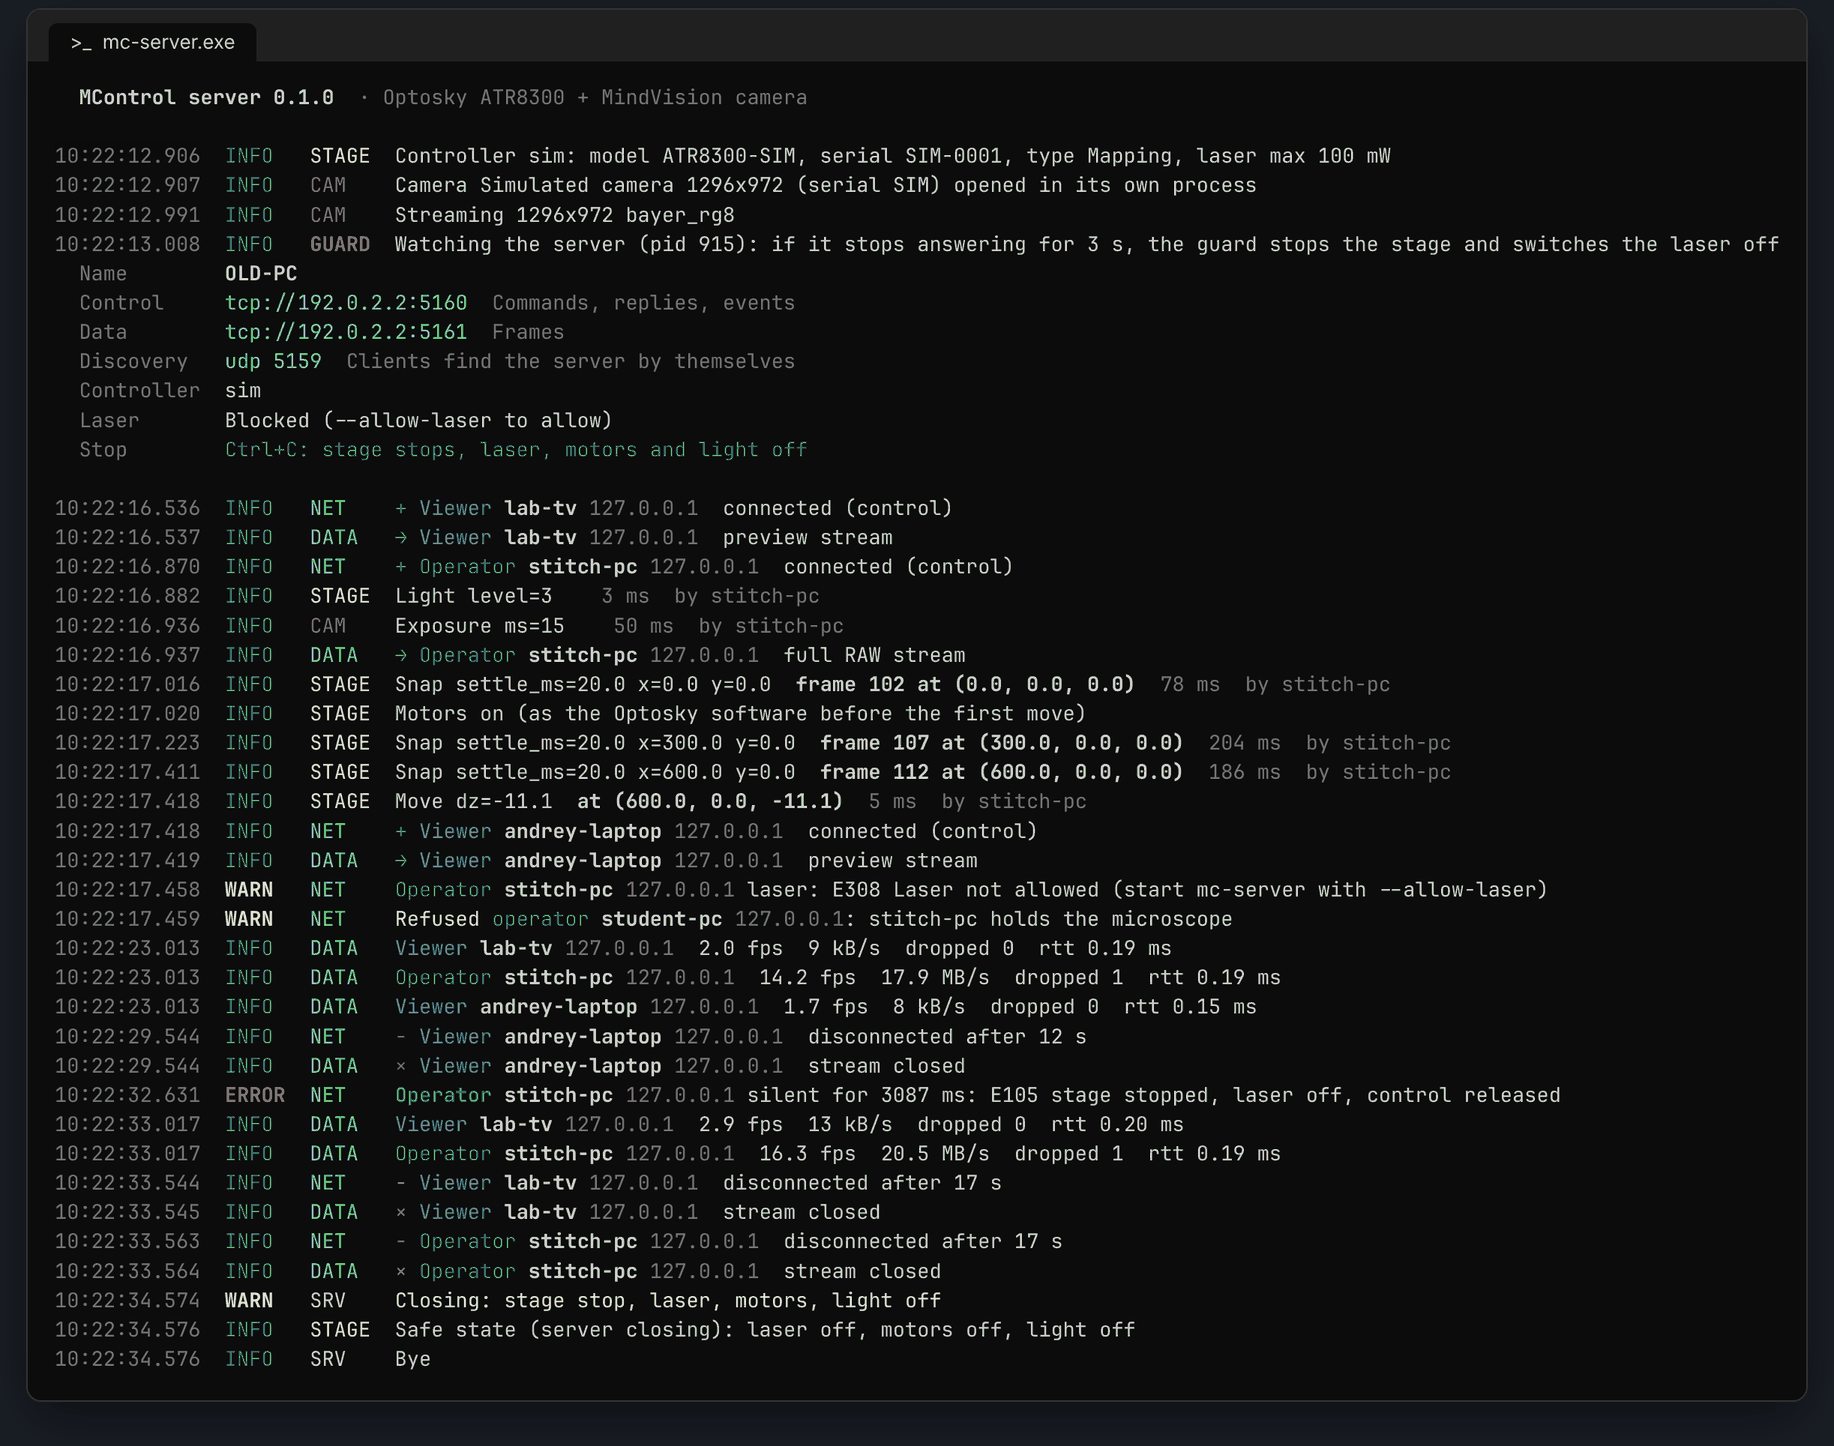
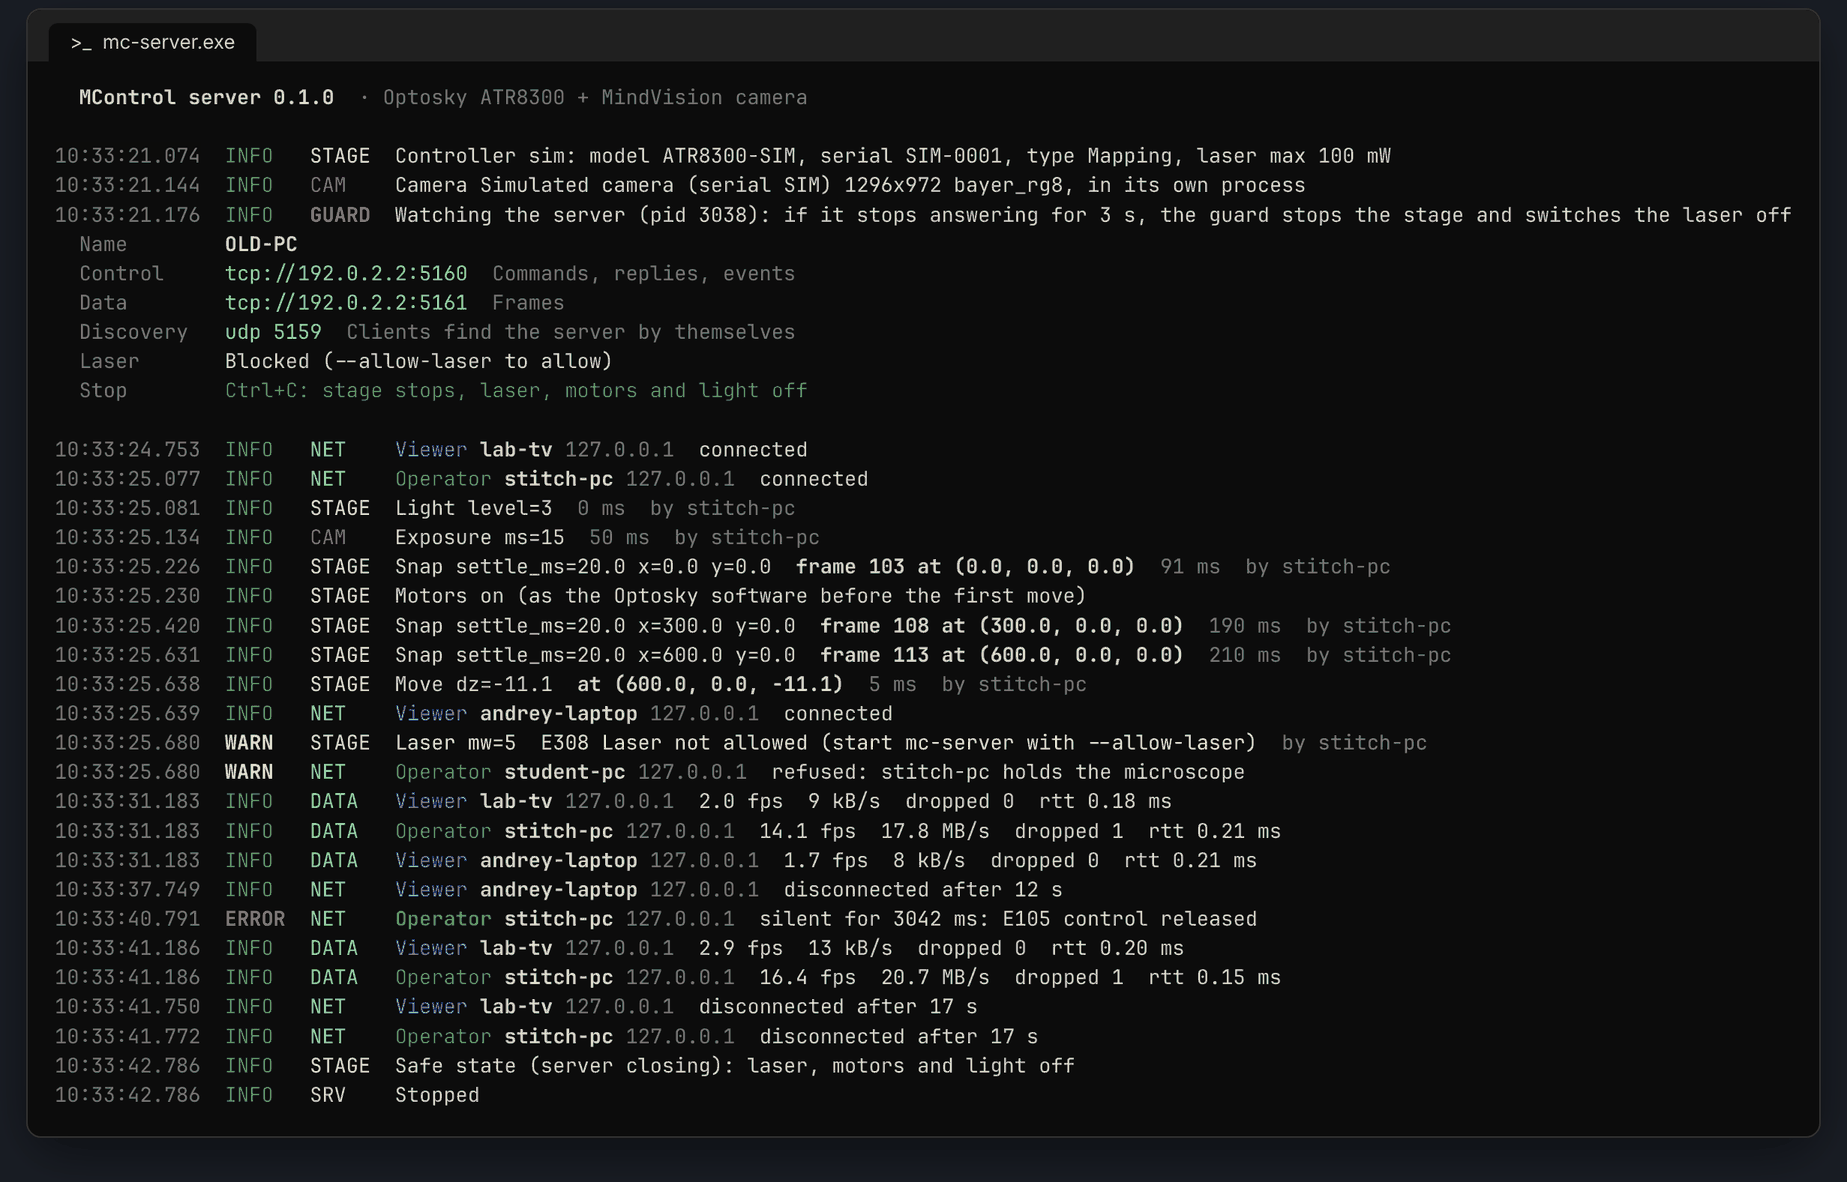
Log: one line per event, one shape for all
- no +/-/arrow marks: who first, then what happened
- data link open/close, camera 'opened', per-command guard lines moved to debug
- laser and zero logged once, by the command log; failed commands use the same shape
- shutdown: one safe-state line, no separate warning
- camera waits up to 3 s for its worker instead of failing at start (CI race)

Changed region(s): [[0.0311, 0.0, 0.9635, 0.9442], [0.8081, 0.731, 0.8391, 0.7614], [0.7459, 0.731, 0.777, 0.7614]]

diff --git a/crates/mc-server/src/net.rs b/crates/mc-server/src/net.rs
@@ -3,7 +3,7 @@
 
 use crate::camera::Camera;
 use crate::frames::{Frame, Hub, Outbox, Want};
-use crate::log::{paint, rate, BLUE, BOLD, DIM, GREEN, RED};
+use crate::log::{paint, rate, Level, BLUE, BOLD, DIM, GREEN};
 use crate::stage::Stage;
 use mc_proto::clock::now_ns;
 use mc_proto::errors::{McError, McResult};
@@ -172,14 +172,14 @@ impl Server {
                 if h.alive.load(Ordering::Relaxed) {
                     let e = McError::new("E103", format!("{} ({})", h.name, h.addr.ip()));
                     sess.send(&err(&id, &e));
-                    warn!("NET", "refused {}: {} holds the microscope", sess.who(), h.name);
+                    warn!("NET", "{}  refused: {} holds the microscope", sess.who(), h.name);
                     return;
                 }
             }
             *l = Some(sess.clone());
         }
         self.sessions.lock().unwrap().push(sess.clone());
-        info!("NET", "{} {}  connected (control)", paint(GREEN, "+"), sess.who());
+        info!("NET", "{}  connected", sess.who());
         sess.send(&ok(&id, json!({"session": sess.id, "role": if role == Role::Operator { "operator" } else { "viewer" },
             "server": self.info(), "t_server": now_ns()})));
         if role == Role::Operator {
@@ -227,7 +227,7 @@ impl Server {
                 false
             }
         };
-        info!("NET", "{} {}  {} after {:.0} s", paint(RED, "-"), sess.who(), why, (now_ns() - sess.since) as f64 / 1e9);
+        info!("NET", "{}  {} after {:.0} s", sess.who(), why, (now_ns() - sess.since) as f64 / 1e9);
         if was_op {
             self.safe_stop("operator gone");
             self.broadcast(&json!({"event": "operator", "name": null}));
@@ -240,7 +240,7 @@ impl Server {
         let st = self.stage.clone();
         let laser = st.shared.lock().unwrap().laser;
         if laser > 0 || st.shared.lock().unwrap().moving {
-            warn!("STAGE", "{why}: stopping the stage, laser off");
+            warn!("STAGE", "{why}: stage stopped, laser off");
         }
         std::thread::spawn(move || {
             let _ = st.call(|w| {
@@ -323,7 +323,7 @@ impl Server {
         }
         if cmd == "stop" {
             self.stage.stop();
-            warn!("STAGE", "STOP from {}", sess.who());
+            warn!("STAGE", "Stop by {}", sess.name);
             sess.send(&ok(&id, json!({})));
             return;
         }
@@ -341,11 +341,11 @@ impl Server {
             let r = s.run_cmd(&sess, &cmd, &v);
             match r {
                 Ok(x) => {
-                    log_done(&sess, &cmd, &v, &x, (now_ns() - t0) as f64 / 1e6);
+                    log_cmd(&sess, &cmd, &v, Ok(&x), (now_ns() - t0) as f64 / 1e6);
                     sess.send(&ok(&id, x))
                 }
                 Err(e) => {
-                    warn!("NET", "{} {}: {}", sess.who(), cmd, e);
+                    log_cmd(&sess, &cmd, &v, Err(&e), (now_ns() - t0) as f64 / 1e6);
                     sess.send(&err(&id, &e));
                 }
             }
@@ -408,9 +408,7 @@ impl Server {
         } else if d.iter().any(|a| a.is_some()) {
             self.stage.call(move |w| w.move_by(d, gen))?;
         }
-        if !self.cam.ok.load(Ordering::Relaxed) {
-            return Err(McError::new("E500", ""));
-        }
+        self.cam.wait_ok(3000)?;
         let settle = f3(v, "settle_ms").unwrap_or(0.0).max(0.0);
         let t_ready = self.stage.shared.lock().unwrap().settled_ns.max(now_ns()) + (settle * 1e6) as u64;   // a fresh frame, taken still
         let timeout = Duration::from_millis(f3(v, "timeout_ms").unwrap_or(5000.0).max(0.0) as u64);
@@ -474,7 +472,7 @@ impl Server {
         let _ = write_json(&mut w, &json!({"ok": true}));
         use std::io::Write;
         let _ = w.flush();
-        info!("DATA", "{} {}  {}", paint(GREEN, "→"), sess.who(), if raw { "full RAW stream" } else { "preview stream" });
+        crate::debug!("DATA", "{} data link: {}", sess.who(), if raw { "full RAW stream" } else { "preview stream" });
         let _ = addr;
         while let Some((f, preview, reliable)) = ob.next() {
             if !sess.alive.load(Ordering::Relaxed) {
@@ -499,7 +497,7 @@ impl Server {
         }
         self.hub.remove(&ob);
         ob.close();
-        info!("DATA", "{} {}  stream closed", paint(RED, "×"), sess.who());
+        crate::debug!("DATA", "{} data link closed", sess.who());
     }
 
     // ---------------------------------------------------------------- background
@@ -510,7 +508,7 @@ impl Server {
             if let Some(h) = self.holder() {
                 let silent = (now_ns() - h.last_seen.load(Ordering::Relaxed)) / 1_000_000;
                 if silent > self.cfg.dead_ms {
-                    error!("NET", "{} silent for {} ms: E105 stage stopped, laser off, control released", h.who(), silent);
+                    error!("NET", "{}  silent for {} ms: E105 control released", h.who(), silent);
                     h.send(&json!({"event": "error", "error": McError::new("E105", format!("{silent} ms")).json()}));
                     *self.lease.lock().unwrap() = None;
                     self.safe_stop("operator silent");
@@ -567,15 +565,28 @@ impl Server {
     }
 }
 
-/// One line per finished operator command: what was asked, what came out, how long it took.
-fn log_done(sess: &Session, cmd: &str, v: &Value, r: &Value, ms: f64) {
+fn cmd_args(v: &Value) -> String {
+    v.as_object()
+        .map(|o| o.iter().filter(|(k, _)| !matches!(k.as_str(), "cmd" | "id")).map(|(k, x)| format!("{k}={x}")).collect::<Vec<_>>().join(" "))
+        .unwrap_or_default()
+}
+
+fn cmd_tag(cmd: &str) -> &'static str {
+    if matches!(cmd, "exposure" | "gain" | "auto_exposure" | "white_balance") { "CAM" } else { "STAGE" }
+}
+
+/// One line per finished operator command, in one shape: what was asked, what came out (or the error), how long, by whom.
+fn log_cmd(sess: &Session, cmd: &str, v: &Value, r: Result<&Value, &McError>, ms: f64) {
+    let r = match r {
+        Ok(x) => x,
+        Err(e) => {
+            crate::log::log(Level::Warn, cmd_tag(cmd), &format!("{cmd} {}  {e}  {}", cmd_args(v), paint(DIM, &format!("by {}", sess.name))));
+            return;
+        }
+    };
     if matches!(cmd, "camera_state" | "temperature") {
         return; // reads, not actions
     }
-    let args: Vec<String> = v
-        .as_object()
-        .map(|o| o.iter().filter(|(k, _)| !matches!(k.as_str(), "cmd" | "id")).map(|(k, x)| format!("{k}={x}")).collect())
-        .unwrap_or_default();
     let xyz = |a: &Value| a.as_array().map(|p| p.iter().map(|x| format!("{:.1}", x.as_f64().unwrap_or(0.0))).collect::<Vec<_>>().join(", "));
     let out = if let Some(p) = r.get("pos_um").and_then(xyz) {
         format!("at ({p})")
@@ -584,8 +595,10 @@ fn log_done(sess: &Session, cmd: &str, v: &Value, r: &Value, ms: f64) {
     } else {
         String::new()
     };
-    let tag = if matches!(cmd, "exposure" | "gain" | "auto_exposure" | "white_balance") { "CAM" } else { "STAGE" };
-    info!(tag, "{cmd} {}  {}  {}  {}", args.join(" "), paint(BOLD, &out), paint(DIM, &format!("{ms:.0} ms")), paint(DIM, &format!("by {}", sess.name)));
+    let tag = cmd_tag(cmd);
+    let level = if cmd == "laser" && v["mw"].as_f64().unwrap_or(0.0) > 0.0 { Level::Warn } else { Level::Info }; // laser on stands out
+    let parts = [format!("{cmd} {}", cmd_args(v)), if out.is_empty() { out } else { paint(BOLD, &out) }, paint(DIM, &format!("{ms:.0} ms  by {}", sess.name))];
+    crate::log::log(level, tag, &parts.iter().filter(|p| !p.is_empty()).cloned().collect::<Vec<_>>().join("  "));
 }
 
 /// Build a frame from the worker's header: number it and add where the stage was during the exposure.

diff --git a/crates/mc-server/src/camera.rs b/crates/mc-server/src/camera.rs
@@ -13,7 +13,7 @@ use std::process::{Child, ChildStdin, Command, Stdio};
 use std::sync::atomic::{AtomicBool, AtomicU64, Ordering};
 use std::sync::mpsc::{channel, Sender};
 use std::sync::{Arc, Mutex};
-use std::time::Duration;
+use std::time::{Duration, Instant};
 
 // ============================================================== worker process
 
@@ -57,7 +57,7 @@ pub fn worker_main(args: &[String]) -> ! {
         let d = dev.lock().unwrap();
         let (model, sn) = match &*d {
             Dev::Mv(c) => (c.name.clone(), c.sn.clone()),
-            Dev::Sim(s) => (format!("Simulated camera {}x{}", s.w, s.h), "SIM".into()),
+            Dev::Sim(_) => ("Simulated camera".to_string(), "SIM".into()),
         };
         let _ = write_json(&mut out, &json!({"event": "ready", "model": model, "serial": sn}));
         let _ = out.flush();
@@ -302,7 +302,9 @@ impl Camera {
                             i["w"] = hdr["w"].clone();
                             i["h"] = hdr["h"].clone();
                             i["fmt"] = hdr["fmt"].clone();
-                            info!("CAM", "Streaming {}x{} {}", hdr["w"], hdr["h"], hdr["fmt"].as_str().unwrap_or("?"));
+                            // one line per camera start: what it is and what it sends
+                            info!("CAM", "Camera {} (serial {}) {}x{} {}, in its own process", i["model"].as_str().unwrap_or("?"),
+                                i["serial"].as_str().unwrap_or("?"), hdr["w"], hdr["h"], hdr["fmt"].as_str().unwrap_or("?"));
                         }
                         on_frame(CamFrame { hdr, px: px.to_vec() });
                     }
@@ -313,7 +315,7 @@ impl Camera {
                             let mut i = self.info.lock().unwrap();
                             i["model"] = v["model"].clone();
                             i["serial"] = v["serial"].clone();
-                            info!("CAM", "Camera {} (serial {}) opened in its own process", v["model"].as_str().unwrap_or("?"), v["serial"].as_str().unwrap_or("?"));
+                            crate::debug!("CAM", "Camera {} opened", v["model"].as_str().unwrap_or("?"));
                             last_fatal.clear();
                         }
                         Some("fatal") => {
@@ -352,8 +354,21 @@ impl Camera {
         }
     }
 
+    /// Camera up, or wait for it while the worker starts or restarts (at most `ms`).
+    pub fn wait_ok(&self, ms: u64) -> McResult<()> {
+        let end = Instant::now() + Duration::from_millis(ms);
+        while !self.ok.load(Ordering::Relaxed) {
+            if Instant::now() > end {
+                return Err(McError::new("E500", ""));
+            }
+            std::thread::sleep(Duration::from_millis(20));
+        }
+        Ok(())
+    }
+
     /// Send a command to the worker, wait for its reply.
     pub fn cmd(&self, mut v: Value) -> McResult<Value> {
+        self.wait_ok(3000)?;
         let id = self.next.fetch_add(1, Ordering::Relaxed);
         v["id"] = json!(id);
         let (tx, rx) = channel();

diff --git a/crates/mc-server/src/main.rs b/crates/mc-server/src/main.rs
@@ -86,7 +86,7 @@ fn main() {
         }
         let mut found = None;
         for p in &ports {
-            info!("STAGE", "trying {p} ...");
+            info!("STAGE", "Trying {p}");
             match stage::Stage::open(p, cfg.clone()) {
                 Ok(s) => {
                     found = Some(s);
@@ -202,7 +202,6 @@ fn main() {
     println!("  {}  {}  {}", paint(DIM, "Control   "), paint(CYAN, &format!("tcp://{ip}:{}", ncfg.control_port)), paint(DIM, "Commands, replies, events"));
     println!("  {}  {}  {}", paint(DIM, "Data      "), paint(CYAN, &format!("tcp://{ip}:{}", ncfg.data_port)), paint(DIM, "Frames"));
     println!("  {}  {}  {}", paint(DIM, "Discovery "), paint(CYAN, &format!("udp {}", mc_proto::DISCOVERY_PORT)), paint(DIM, "Clients find the server by themselves"));
-    println!("  {}  {}", paint(DIM, "Controller"), st.port);
     println!("  {}  {}", paint(DIM, "Laser     "), if cfg.allow_laser { paint(YELLOW, "Allowed") } else { "Blocked (--allow-laser to allow)".into() });
     println!("  {}  {}", paint(DIM, "Stop      "), paint(GREEN, "Ctrl+C: stage stops, laser, motors and light off"));
     println!();
@@ -220,7 +219,6 @@ fn main() {
     // ---- Ctrl+C: safe state, tell the guard, leave
     let (st2, cam2) = (st.clone(), cam.clone());
     let _ = ctrlc::set_handler(move || {
-        warn!("SRV", "closing: stage stop, laser, motors, light off");
         st2.stop();
         let _ = st2.call(|w| {
             w.safe_off("server closing");
@@ -230,7 +228,7 @@ fn main() {
         if let Ok(s) = UdpSocket::bind("127.0.0.1:0") {
             let _ = s.send_to(b"bye", ("127.0.0.1", hb_port));
         }
-        info!("SRV", "bye");
+        info!("SRV", "Stopped");
         std::process::exit(0);
     });
 

diff --git a/crates/mc-server/src/guard.rs b/crates/mc-server/src/guard.rs
@@ -44,7 +44,7 @@ pub fn guard_main(args: &[String]) -> ! {
             break;
         }
     }
-    error!("GUARD", "E600 server silent for {:.1} s: killing it, then laser off, motors off, light off", (now_ns() - last) as f64 / 1e9);
+    error!("GUARD", "E600 server silent for {:.1} s: stopping it", (now_ns() - last) as f64 / 1e9);
     kill(pid);
     std::thread::sleep(Duration::from_millis(500));
     for attempt in 0..10 {
@@ -52,11 +52,11 @@ pub fn guard_main(args: &[String]) -> ! {
             Ok(mut c) => {
                 for (cmd, data) in [(C::LASER, vec![0u8, 0]), (C::TURN_MOTOR, vec![0]), (C::LIGHT, vec![0, 0])] {
                     match c.cmd(cmd, &data, 1000) {
-                        Ok(_) => info!("GUARD", "{} off", C::name(cmd)),
+                        Ok(_) => crate::debug!("GUARD", "{} off", C::name(cmd)),
                         Err(e) => error!("GUARD", "{}: {e}", C::name(cmd)),
                     }
                 }
-                info!("GUARD", "safe state set. Start mc-server again.");
+                info!("GUARD", "Safe state set: laser, motors and light off. Start mc-server again");
                 std::process::exit(0);
             }
             Err(e) => {

diff --git a/crates/mc-server/src/stage.rs b/crates/mc-server/src/stage.rs
@@ -413,7 +413,6 @@ impl Worker {
         s.origin = s.steps;
         drop(s);
         self.persist(false);
-        info!("STAGE", "Zero set here");
         Ok(self.shared.lock().unwrap().json())
     }
 
@@ -443,12 +442,7 @@ impl Worker {
             }
         }
         self.ctl.cmd(C::LASER, &(mw as u16).to_be_bytes(), 1000)?;
-        self.shared.lock().unwrap().laser = mw;
-        if mw > 0 {
-            warn!("STAGE", "LASER ON: {mw} mW");
-        } else {
-            info!("STAGE", "Laser off");
-        }
+        self.shared.lock().unwrap().laser = mw; // logged by the command log (or by whoever switched it off)
         Ok(json!({"laser_mw": mw}))
     }
 
@@ -493,7 +487,7 @@ impl Worker {
         s.cooling = false;
         drop(s);
         self.persist(false);
-        info!("STAGE", "Safe state ({why}): laser off, motors off, light off");
+        info!("STAGE", "Safe state ({why}): laser, motors and light off");
     }
 
     pub fn laser_off_now(&mut self) {
